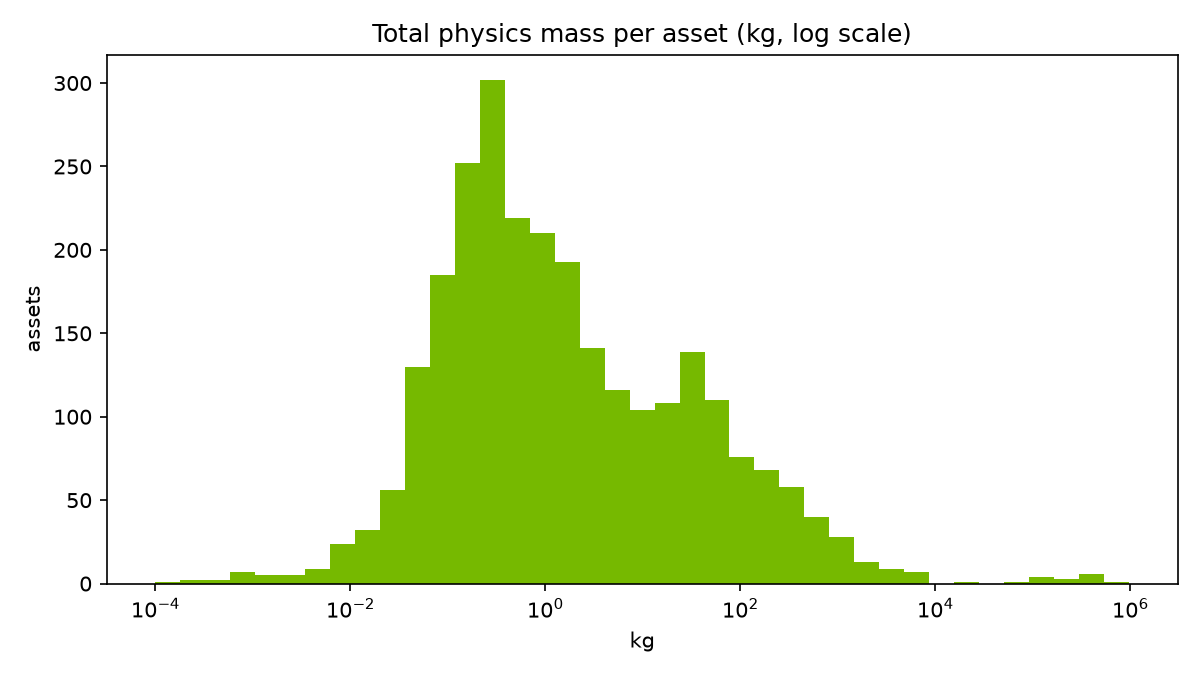
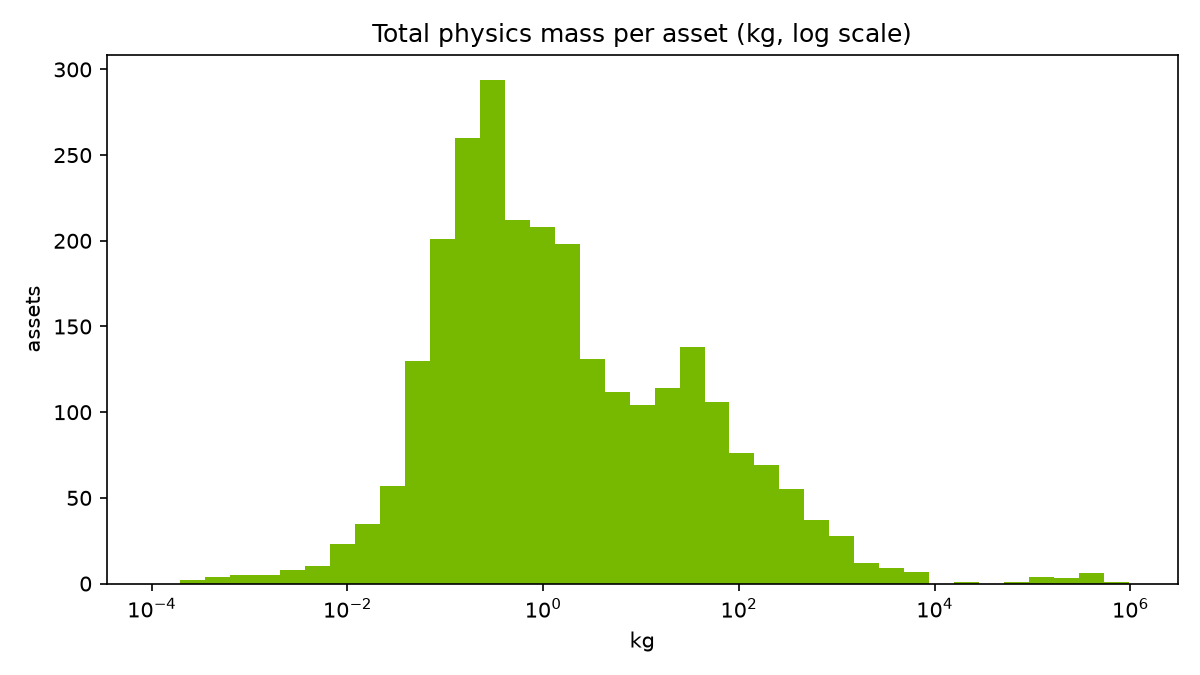
chore: regenerate dataset card from live pipeline run

diff --git a/card/README.md b/card/README.md
@@ -18,7 +18,7 @@ pretty_name: SimReady Assets (NVIDIA)
 # NVIDIA SimReady Assets — Community Dataset Card
 
 > [!NOTE]
-> This card was produced by the community catalog project and offered to NVIDIA; numbers are computed programmatically from the repo tree and payload files on 2026-10-30. Verify against https://huggingface.co/datasets/nvidia/simready-assets for the latest state.
+> This card was produced by the community catalog project and offered to NVIDIA; numbers are computed programmatically from the repo tree and payload files on 2026-11-02. Verify against https://huggingface.co/datasets/nvidia/simready-assets for the latest state.
 
 NVIDIA's **SimReady Assets** are simulation-ready 3D models for robotics and Physical AI: every asset ships with tuned physics (mass, inertia, collision approximations), materials, and variants for **PhysX**, **MuJoCo**, and **Newton** physics engines. The dataset contains **2,677 assets** totaling **489.68 GB** under **CC-BY-4.0**.
 
@@ -35,7 +35,7 @@ NVIDIA's **SimReady Assets** are simulation-ready 3D models for robotics and Phy
 | MuJoCo variant | 2,669 |
 | Newton variant | 2,669 |
 | License | CC-BY-4.0 |
-| Data as of | 2026-10-30 |
+| Data as of | 2026-11-02 |
 
 ## Directory structure
 
@@ -94,10 +94,13 @@ Per-mesh physics properties (`physics:mass`, `physics:centerOfMass`, `physics:di
 
 | Mass (per-asset sum) | Value |
 |---|---|
-| Minimum | 0 kg |
-| Median | 0.916132 kg |
-| Mean | 1789.14 kg |
+| Minimum | 0.000109254 kg |
+| Median | 0.923211 kg |
+| Mean | 1790.49 kg |
 | Maximum | 952461 kg |
+
+> [!WARNING]
+> **Known data quality note:** 22 assets (0.82%) report a summed mass above 5000 kg (e.g. warehouse structural modules, an exhaust manifold at ~500,000 kg) — these look like authoring/export defects in NVIDIA's source USD rather than real weights. We report the numbers as-is, unmodified; use the **median** above rather than the mean when reasoning about a typical asset.
 
 Collision approximations in use: `convexDecomposition` (9), `sdf` (10,658)
 
@@ -123,8 +126,6 @@ Collision approximations in use: `convexDecomposition` (9), `sdf` (10,658)
 
 | Asset | Mass (kg) |
 |---|---|
-| blinds_window_2m_closed_a01 | 0 |
-| tape_safety_white_2m10cm_b01 | 0 |
 | hardware_bearing_caster_a01 | 0.000109254 |
 | factory_nut_m4_loose | 0.000267644 |
 | factory_nut_m4_tight | 0.000268642 |
@@ -133,6 +134,8 @@ Collision approximations in use: `convexDecomposition` (9), `sdf` (10,658)
 | factory_bolt_m04_loose | 0.00063011 |
 | screw_high_res | 0.000635557 |
 | factory_bolt_m04_tight | 0.000651707 |
+| hardware_bearingPin_a01 | 0.000784414 |
+| factory_nut_m8_loose | 0.000992802 |
 
 ## Physics engine variants
 
@@ -224,4 +227,4 @@ The assets are © NVIDIA Corporation, licensed [CC-BY-4.0](https://creativecommo
 - **SimReady Foundation** (validation specs & tooling): https://github.com/NVIDIA/simready-foundation
 - **Isaac Sim**: https://developer.nvidia.com/isaac/sim
 
-_Generated from repository data as of 2026-10-30; the dataset grows daily — re-run the pipeline for fresh numbers._
+_Generated from repository data as of 2026-11-02; the dataset grows daily — re-run the pipeline for fresh numbers._
